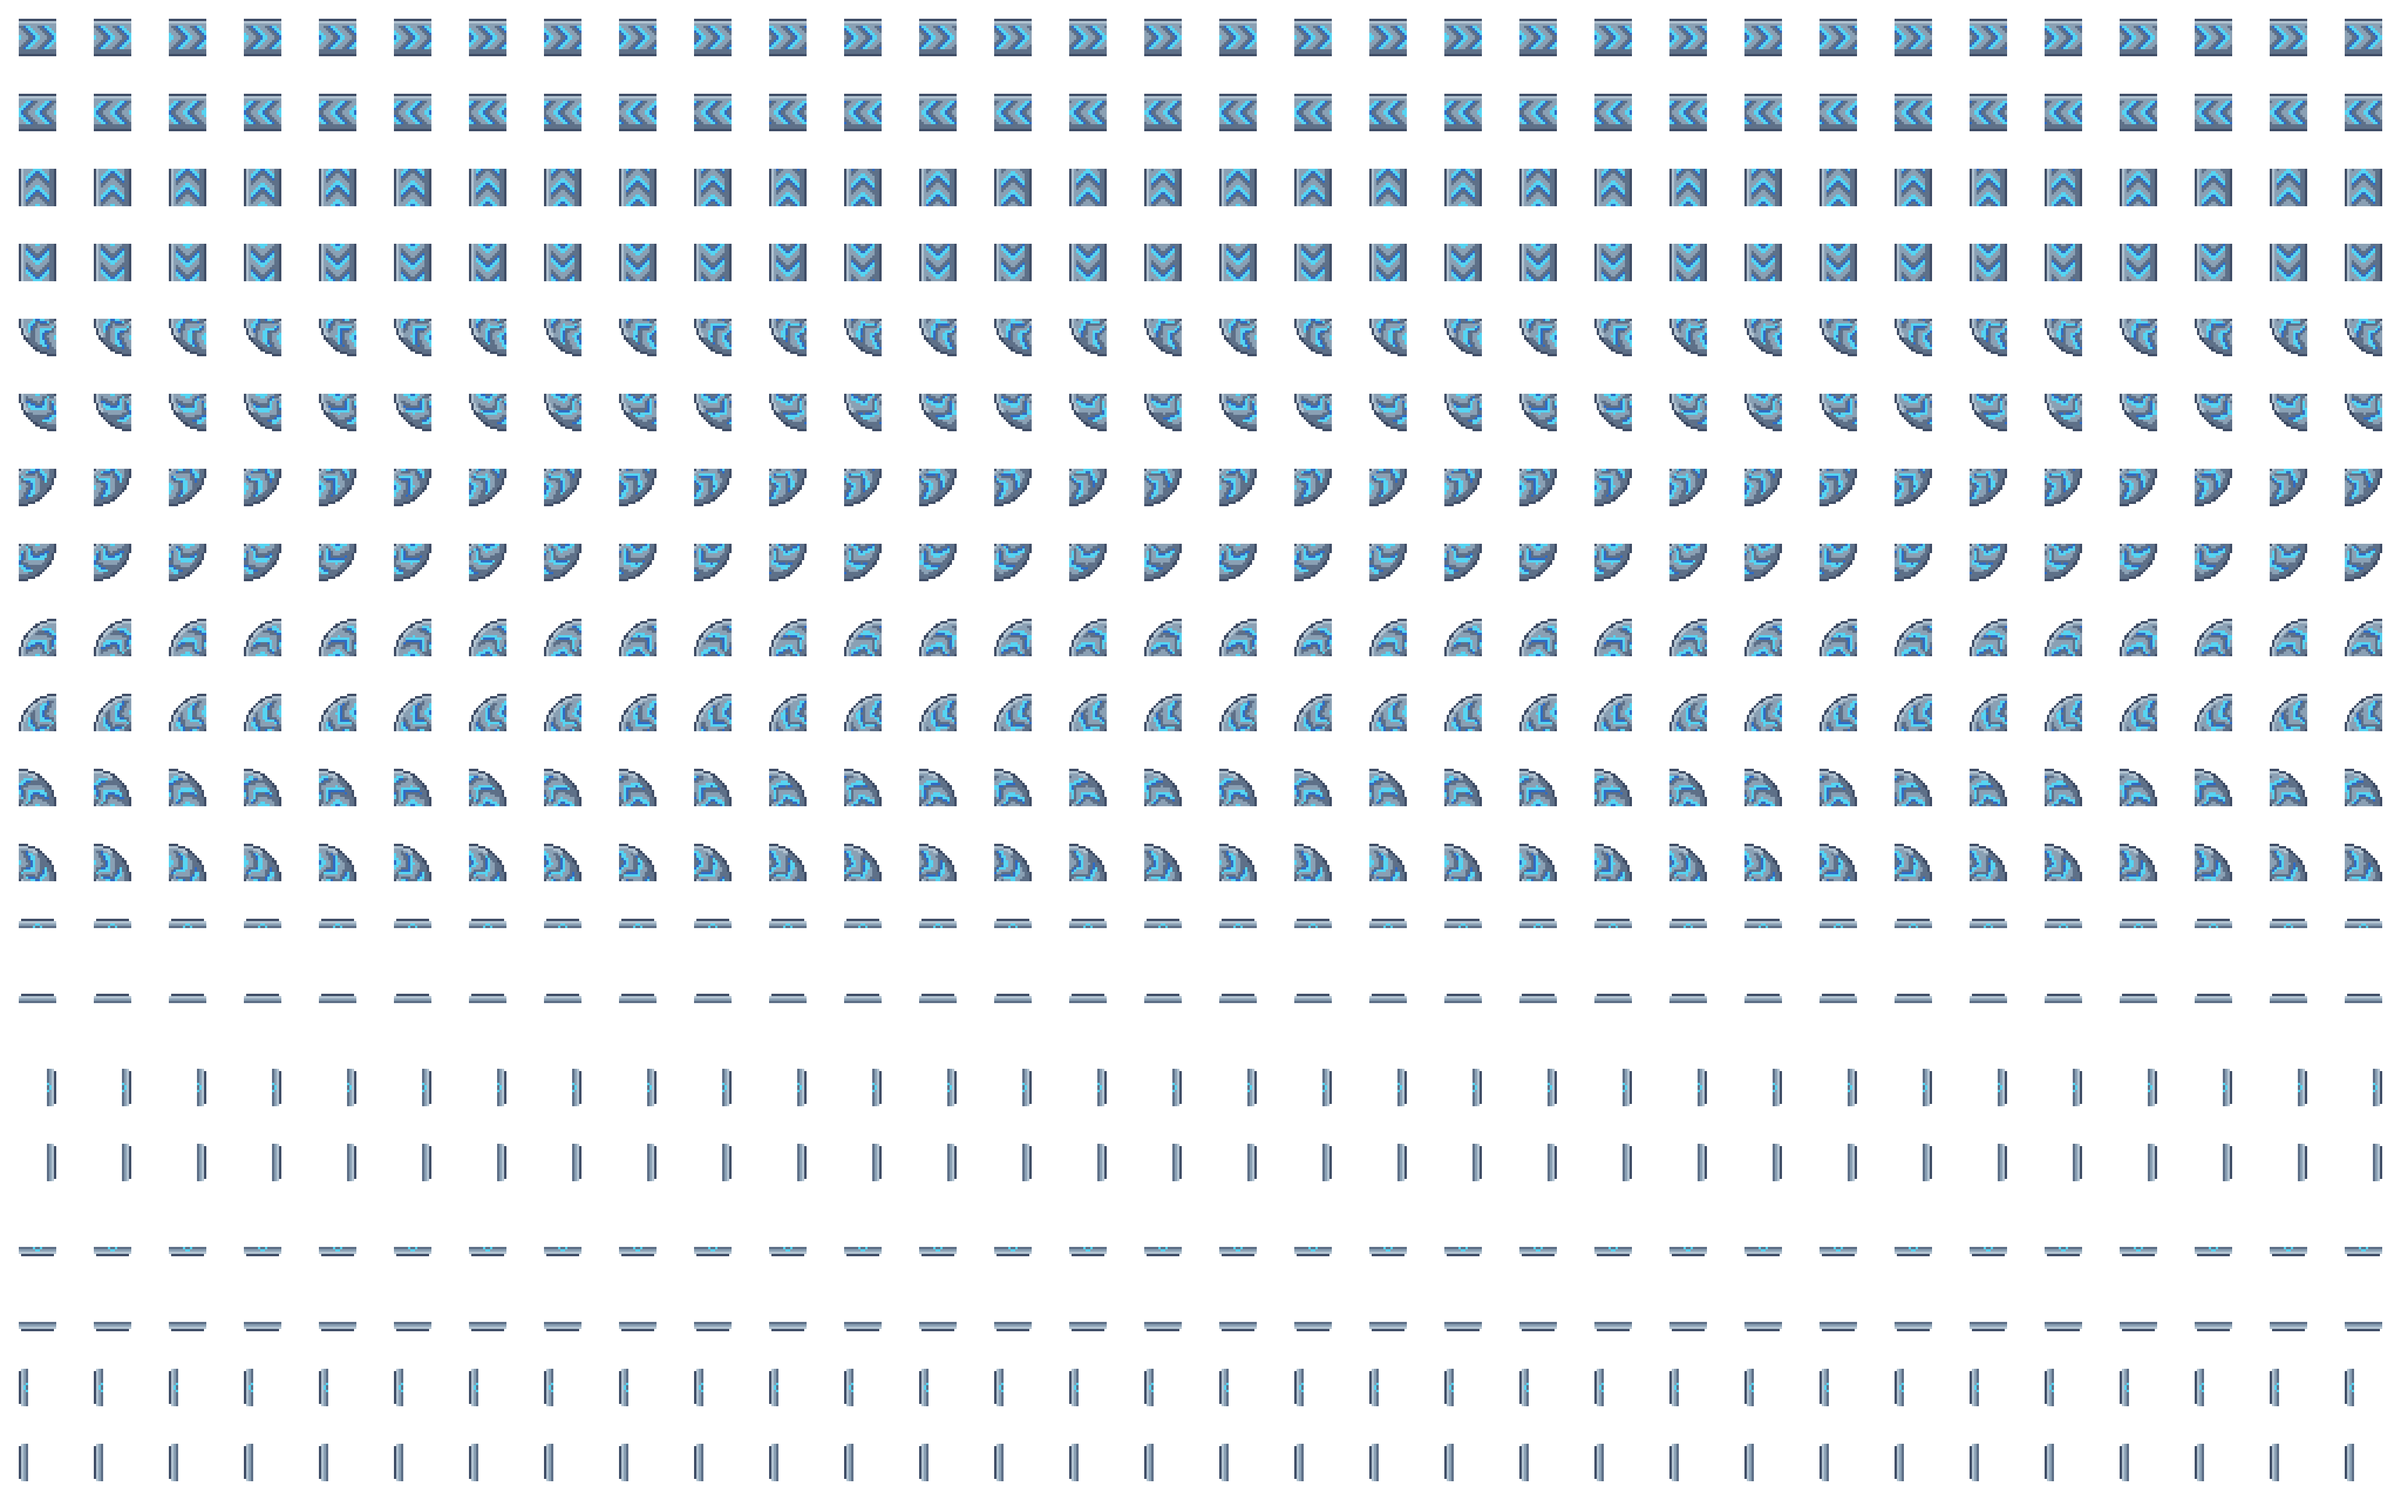
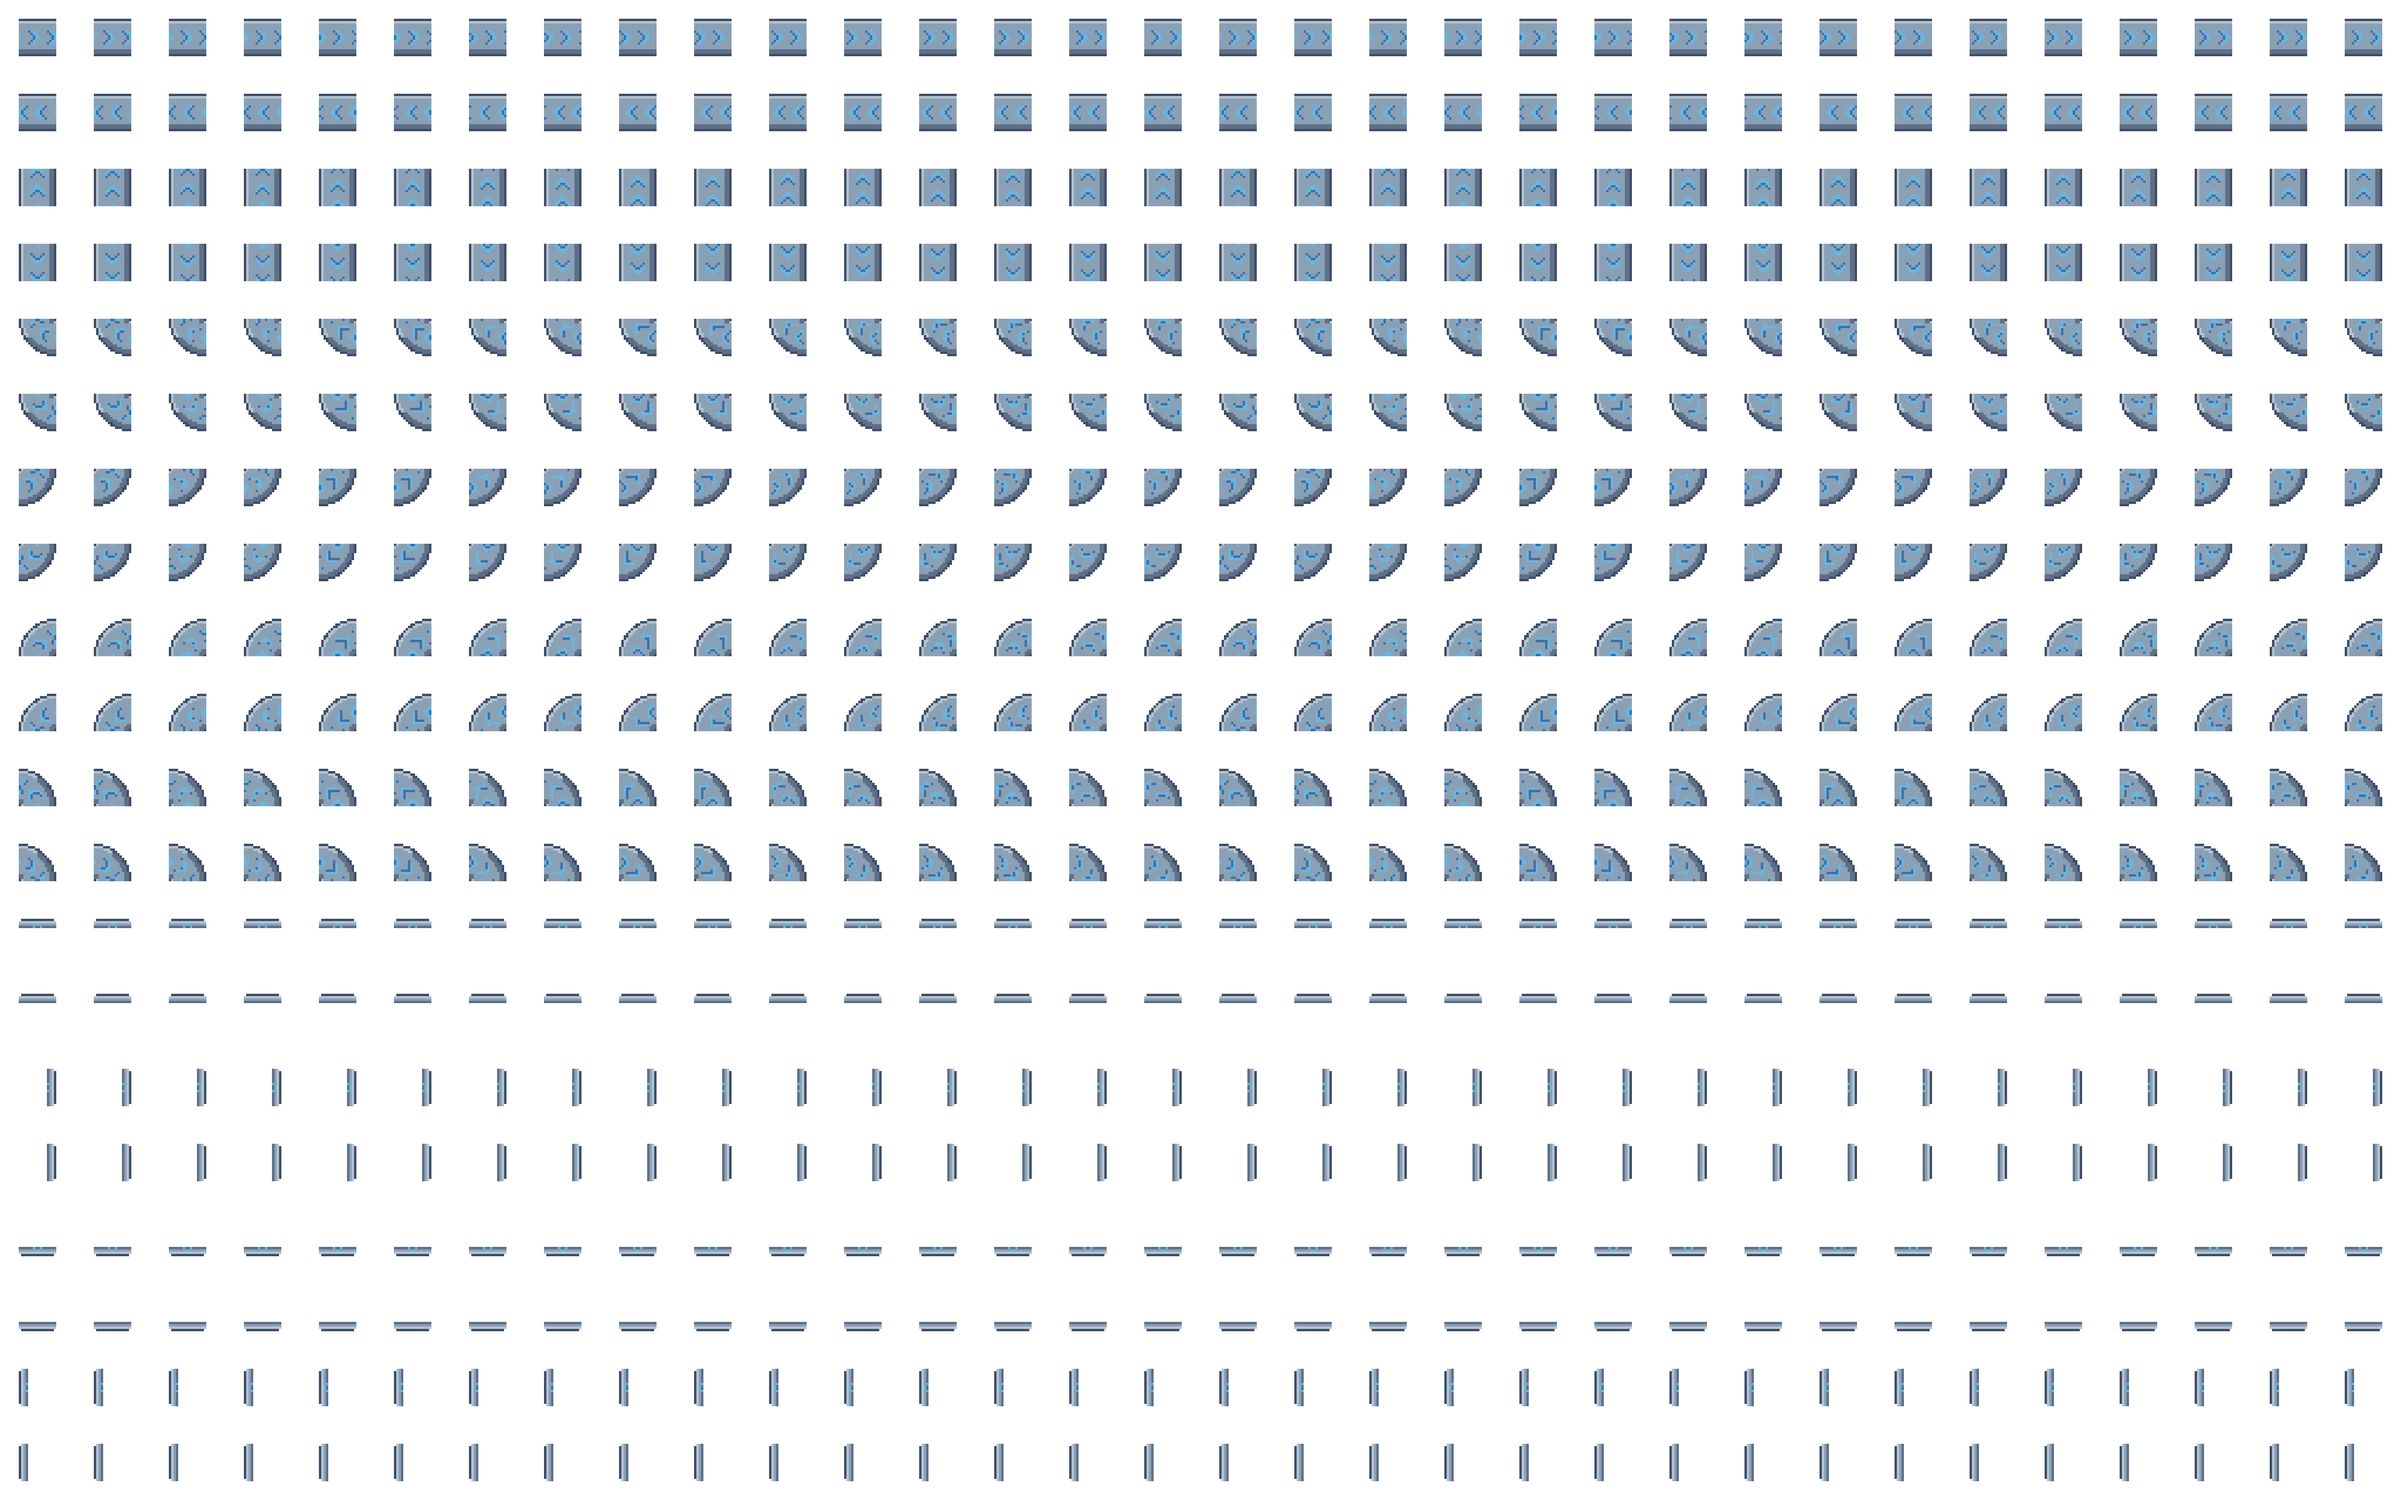
Pixel : convoyeurs avec petits chevrons et couleurs sourdes

diff --git a/pixel/pillow/belt.py b/pixel/pillow/belt.py
@@ -43,13 +43,15 @@ def shade(depth, normal):
 
 
 def surface(s, lat, off, tier):
+    """Petits chevrons (7 px de haut, 2 px d'épaisseur) centrés sur l'axe du convoyeur, avec une ombre derrière."""
     light, dark = BELT[tier]
-    ph = (s + abs(lat) - off) % PITCH
-    if ph < 2:
-        return light
-    if ph >= 7:
-        return dark
-    return P["steel_mid"] if ph < 5 else P["steel"]
+    if abs(lat) <= 3.2:
+        ph = (s + abs(lat) - off) % PITCH
+        if ph < 2:
+            return light
+        if ph >= 7:
+            return dark
+    return P["steel_mid"]
 
 
 def straight_pixel(x, y, flow, off, tier):
@@ -72,7 +74,7 @@ def curve_pixel(x, y, curve, off, tier):
     if r > T:
         return None
     ang = math.acos(max(-1.0, min(1.0, (px * a[0] + py * a[1]) / r)))
-    s = ang / (math.pi / 2) * T
+    s = ang / (math.pi / 2) * T            # 16 px de bout en bout : le motif se raccorde aux cases voisines
     if r >= 13:
         return shade(T - r, (px / r, py / r))
     if r < 3:

diff --git a/pixel/pillow/palette.py b/pixel/pillow/palette.py
@@ -36,9 +36,10 @@ for _t, _d in TIERS.items():
     for _i, _n in enumerate(("out", "dark", "mid")):
         P[f"p{_t}_{_n}"] = hx(_d["panel"][_i])
 
-# Chevrons des convoyeurs : clair, ombre (jaune = basique, rouge = rapide, bleu = express, comme dans Factorio)
+# Chevrons des convoyeurs : clair, ombre (jaune = basique, rouge = rapide, bleu = express, comme dans Factorio).
+# Tons volontairement sourds pour rester dans la gamme des machines.
 BELT = {
-    "yellow": (hx("ffd24a"), hx("d9962c")),
-    "red": (hx("f0624f"), hx("b03a48")),
-    "blue": (hx("56d4f2"), hx("2f6bc4")),
+    "yellow": (hx("e8b85a"), hx("a8743a")),
+    "red": (hx("dc6a5e"), hx("8e3a48")),
+    "blue": (hx("6cb4dc"), hx("3f6fa8")),
 }
